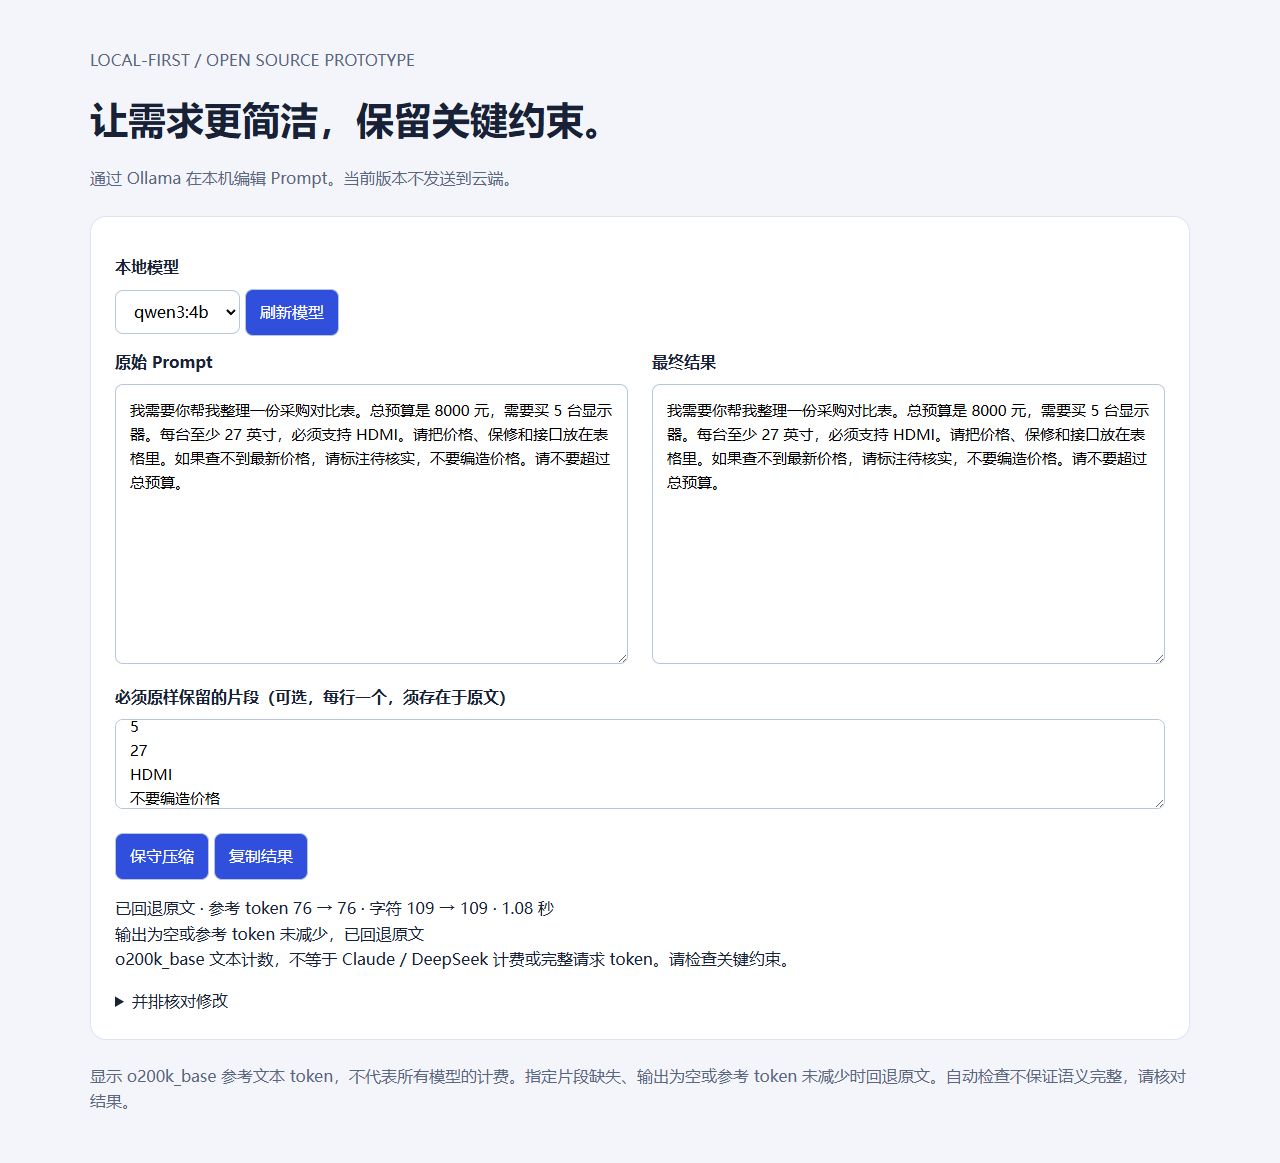
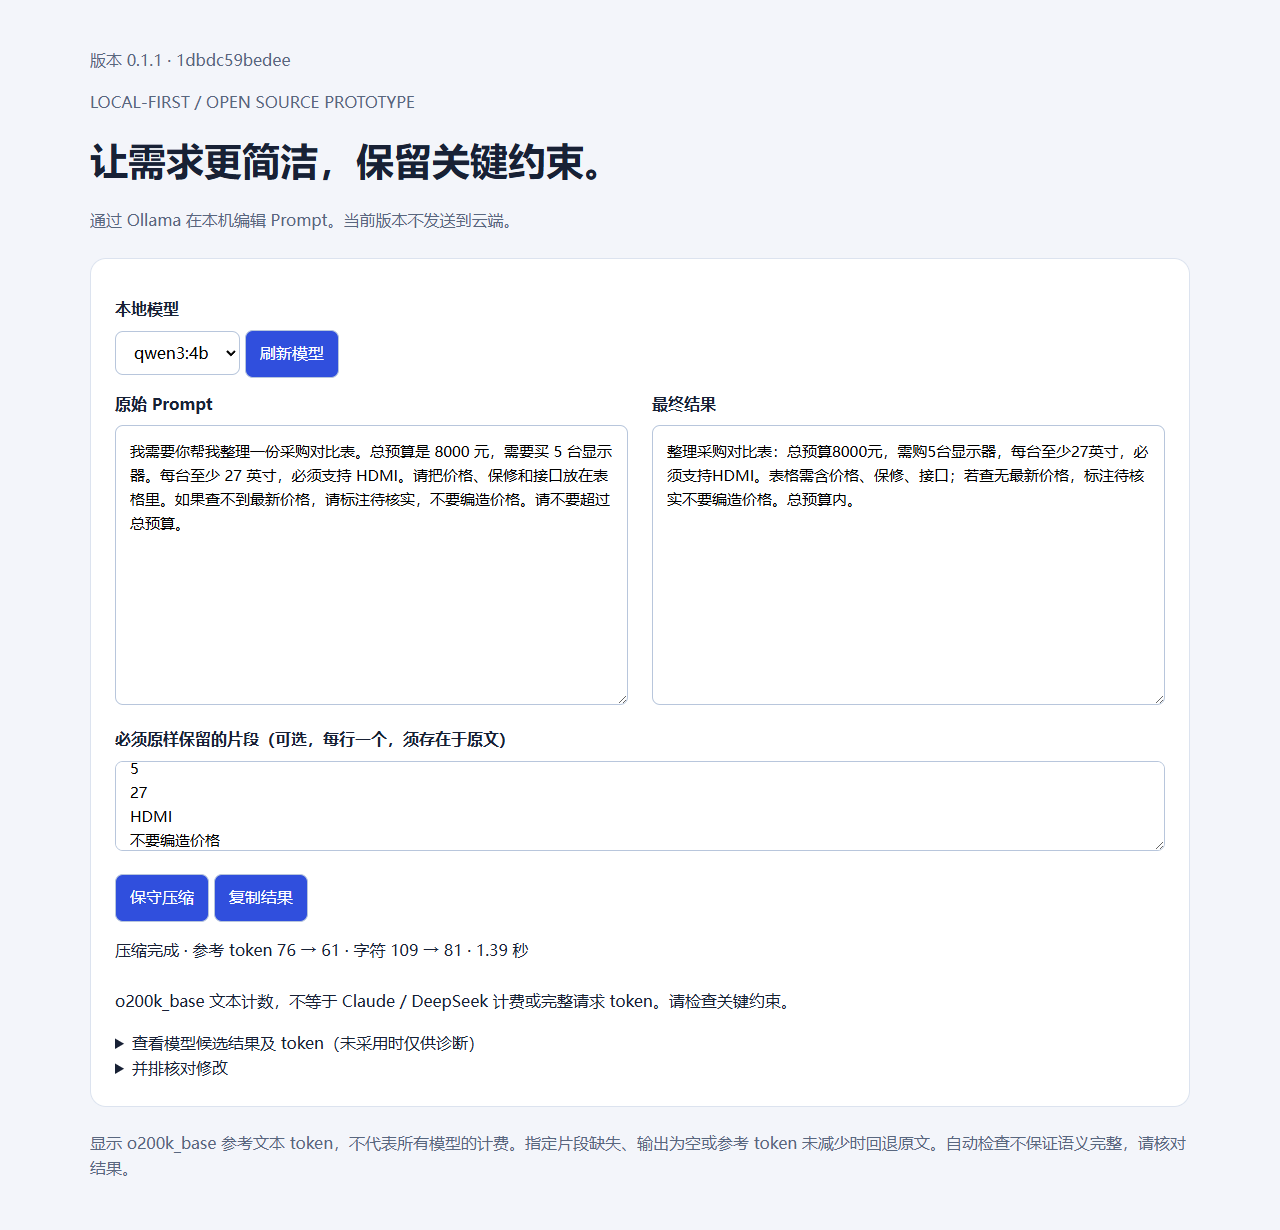
Fix stale duplicate server, expose fallback diagnostics and protect numeric literals

diff --git a/index.html b/index.html
@@ -1,17 +1,18 @@
 <!doctype html>
 <html lang="zh-CN"><meta charset="utf-8"><meta name="viewport" content="width=device-width,initial-scale=1"><title>Prompt Slim</title>
 <style>body{margin:0;background:#f3f5fa;color:#182135;font:16px/1.6 system-ui}main{max-width:1100px;margin:48px auto;padding:0 24px}h1{font-size:38px;margin:8px 0}.muted{color:#59677f}section{background:white;border:1px solid #dce3ef;border-radius:16px;padding:24px;margin:24px 0}.grid{display:grid;grid-template-columns:1fr 1fr;gap:24px}textarea{box-sizing:border-box;width:100%;min-height:280px;padding:14px;border:1px solid #b8c6dc;border-radius:8px;font:15px/1.6 system-ui;resize:vertical}#protected{min-height:90px}select,button{padding:10px 14px;border:1px solid #b8c6dc;border-radius:8px;font:inherit}button{background:#304fdd;color:white;cursor:pointer}button:disabled{opacity:.5}label{display:block;font-weight:600;margin:14px 0 8px}#status{white-space:pre-wrap}pre{white-space:pre-wrap;overflow-wrap:anywhere;background:#f3f5fa;padding:14px}@media(max-width:700px){.grid{grid-template-columns:1fr}}</style>
-<main><p class="muted">LOCAL-FIRST / OPEN SOURCE PROTOTYPE</p><h1>让需求更简洁，保留关键约束。</h1><p class="muted">通过 Ollama 在本机编辑 Prompt。当前版本不发送到云端。</p>
+<main><p id="version" class="muted"></p><p class="muted">LOCAL-FIRST / OPEN SOURCE PROTOTYPE</p><h1>让需求更简洁，保留关键约束。</h1><p class="muted">通过 Ollama 在本机编辑 Prompt。当前版本不发送到云端。</p>
 <section><label for="model">本地模型</label><select id="model"><option value="">正在检查 Ollama…</option></select> <button id="refresh">刷新模型</button>
 <div class="grid"><div><label for="source">原始 Prompt</label><textarea id="source" placeholder="粘贴需求或背景材料"></textarea></div><div><label for="output">最终结果</label><textarea id="output" readonly placeholder="结果会显示在这里"></textarea></div></div>
 <label for="protected">必须原样保留的片段（可选，每行一个，须存在于原文）</label><textarea id="protected" placeholder="例如：禁止覆盖"></textarea>
 <p><button id="compress">保守压缩</button> <button id="copy">复制结果</button></p><p id="status" role="status" aria-live="polite"></p>
-<details><summary>并排核对修改</summary><div class="grid"><pre id="before"></pre><pre id="after"></pre></div></details></section>
+<details><summary>查看模型候选结果及 token（未采用时仅供诊断）</summary><pre id="candidate"></pre></details><details><summary>并排核对修改</summary><div class="grid"><pre id="before"></pre><pre id="after"></pre></div></details></section>
 <p class="muted">显示 o200k_base 参考文本 token，不代表所有模型的计费。指定片段缺失、输出为空或参考 token 未减少时回退原文。自动检查不保证语义完整，请核对结果。</p></main>
 <script>
 const $=id=>document.getElementById(id);
 async function models(){try{const r=await fetch('/api/models');const d=await r.json();if(!r.ok)throw Error(d.error);$('model').replaceChildren();for(const m of d.models){$('model').append(new Option(m,m))}$('status').textContent=d.models.length?'模型已就绪':'Ollama 已启动，还没有下载模型'}catch(e){$('model').replaceChildren(new Option('Ollama 未就绪',''));$('status').textContent=e.message}}
 $('refresh').onclick=models;
-$('compress').onclick=async()=>{const source=$('source').value;$('compress').disabled=true;$('output').value='';$('before').textContent='';$('after').textContent='';$('status').textContent='本地模型正在处理…';try{const r=await fetch('/api/compress',{method:'POST',headers:{'Content-Type':'application/json'},body:JSON.stringify({text:source,model:$('model').value,protected:$('protected').value})});const d=await r.json();if(!r.ok)throw Error(d.error);$('output').value=d.text;$('before').textContent=source;$('after').textContent=d.text;$('status').textContent=(d.fallback?'已回退原文':'压缩完成')+' · 参考 token '+d.original_tokens+' → '+d.compressed_tokens+' · 字符 '+d.original_chars+' → '+d.compressed_chars+' · '+d.seconds+' 秒\n'+d.warnings.join('\n')+'\no200k_base 文本计数，不等于 Claude / DeepSeek 计费或完整请求 token。请检查关键约束。'}catch(e){$('status').textContent=e.message}finally{$('compress').disabled=false}};
+$('compress').onclick=async()=>{const source=$('source').value;$('compress').disabled=true;$('output').value='';$('before').textContent='';$('after').textContent='';$('candidate').textContent='';$('status').textContent='本地模型正在处理…';try{const r=await fetch('/api/compress',{method:'POST',headers:{'Content-Type':'application/json'},body:JSON.stringify({text:source,model:$('model').value,protected:$('protected').value})});const d=await r.json();if(!r.ok)throw Error(d.error);$('candidate').textContent='候选 token：'+d.candidate_tokens+'\n'+d.candidate;$('output').value=d.text;$('before').textContent=source;$('after').textContent=d.text;$('status').textContent=(d.fallback?'已回退原文':'压缩完成')+' · 参考 token '+d.original_tokens+' → '+d.compressed_tokens+' · 字符 '+d.original_chars+' → '+d.compressed_chars+' · '+d.seconds+' 秒\n'+d.warnings.join('\n')+'\no200k_base 文本计数，不等于 Claude / DeepSeek 计费或完整请求 token。请检查关键约束。'}catch(e){$('status').textContent=e.message}finally{$('compress').disabled=false}};
 $('copy').onclick=async()=>{if(!$('output').value)return;try{await navigator.clipboard.writeText($('output').value);$('status').textContent='已复制，请核对后使用。'}catch(e){$('status').textContent='请手动选择结果并复制。'}};models();
+fetch('/api/health').then(r=>r.json()).then(d=>{$('version').textContent='版本 '+d.version+' · '+d.build+(d.restart_required?' · 后台代码已更新，请重启服务':'');}).catch(()=>{$('version').textContent='后台版本过旧，请关闭旧服务并重启。'});
 </script></html>

diff --git a/app.py b/app.py
@@ -1,4 +1,6 @@
 import json
+import hashlib
+import socket
 import pathlib
 import re
 import tiktoken
@@ -7,6 +9,8 @@ from http.server import BaseHTTPRequestHandler, ThreadingHTTPServer
 
 ROOT = pathlib.Path(__file__).parent
 OLLAMA = 'http://127.0.0.1:11434'
+BUILD = hashlib.sha256(pathlib.Path(__file__).read_bytes()).hexdigest()[:12]
+VERSION = '0.1.1'
 
 def call(path, data=None):
     payload = None if data is None else json.dumps(data).encode()
@@ -31,6 +35,8 @@ def compress(data):
     fragments = list(dict.fromkeys(x.strip() for x in protected.splitlines() if x.strip()))
     if any(x not in text for x in fragments):
         raise ValueError('每行保留片段必须存在于原文')
+    numbers = set(re.findall(r'(?<![0-9.])\d+(?:[.,]\d+)*(?:%|％)?', text))
+    fragments = list(dict.fromkeys(fragments + sorted(numbers, key=len, reverse=True)))
     # Mask exact literals so a generative model cannot paraphrase their spelling.
     prefix = '__PROMPT_SLIM_LITERAL_'
     if prefix in text:
@@ -73,14 +79,22 @@ def compress(data):
     candidate_tokens = len(encoding.encode(candidate, disallowed_special=()))
     missing = [x for x in fragments if x not in candidate]
     reasons = []
+    candidate_numbers = set(re.findall(r'(?<![0-9.])\d+(?:[.,]\d+)*(?:%|％)?', candidate))
+    if candidate_numbers != numbers:
+        reasons.append('候选文本的数字发生变化，已回退原文')
     if missing:
         reasons.append('指定保留片段缺失，已回退原文')
-    if not candidate or candidate_tokens >= original_tokens:
-        reasons.append('输出为空或参考 token 未减少，已回退原文')
+    if not candidate:
+        reasons.append('模型返回空文本，已回退原文')
+    elif candidate == text:
+        reasons.append('模型原样返回了输入，未产生压缩')
+    elif candidate_tokens >= original_tokens:
+        reasons.append(f'候选文本为 {candidate_tokens} token，未少于原文 {original_tokens}，已回退原文')
     output = text if reasons else candidate
     return {'text': output, 'candidate': candidate, 'original_chars': len(text),
             'compressed_chars': len(output), 'warnings': reasons, 'missing': missing,
             'fallback': bool(reasons), 'token_savings': None,
+            'candidate_tokens': candidate_tokens, 'build': BUILD, 'version': VERSION,
             'reference_encoding': 'o200k_base', 'original_tokens': original_tokens,
             'compressed_tokens': original_tokens if reasons else candidate_tokens,
             'reference_tokens_saved': 0 if reasons else original_tokens - candidate_tokens,
@@ -91,11 +105,15 @@ class Handler(BaseHTTPRequestHandler):
         body = json.dumps(data, ensure_ascii=False).encode()
         self.send_response(status)
         self.send_header('Content-Type', 'application/json; charset=utf-8')
+        self.send_header('Cache-Control', 'no-store')
         self.send_header('Content-Length', str(len(body)))
         self.end_headers()
         self.wfile.write(body)
 
     def do_GET(self):
+        if self.path == '/api/health':
+            return self.respond({'app':'prompt-slim','version':VERSION,'build':BUILD,
+                                 'restart_required': hashlib.sha256(pathlib.Path(__file__).read_bytes()).hexdigest()[:12] != BUILD})
         if self.path == '/':
             body = (ROOT / 'index.html').read_bytes()
             self.send_response(200)
@@ -127,6 +145,16 @@ class Handler(BaseHTTPRequestHandler):
         except (OSError, ValueError, KeyError, TypeError) as error:
             self.respond({'error': '压缩失败：' + str(error)}, 400)
 
+class LocalServer(ThreadingHTTPServer):
+    allow_reuse_address = False
+    def server_bind(self):
+        if hasattr(socket, 'SO_EXCLUSIVEADDRUSE'):
+            self.socket.setsockopt(socket.SOL_SOCKET, socket.SO_EXCLUSIVEADDRUSE, 1)
+        super().server_bind()
+
 if __name__ == '__main__':
     print('Prompt Slim: http://127.0.0.1:8765 (Ctrl+C to stop)', flush=True)
-    ThreadingHTTPServer(('127.0.0.1', 8765), Handler).serve_forever()
+    try:
+        LocalServer(('127.0.0.1', 8765), Handler).serve_forever()
+    except OSError as error:
+        raise SystemExit('端口 8765 已占用，请关闭旧的 Prompt Slim 服务后重新启动。') from error
